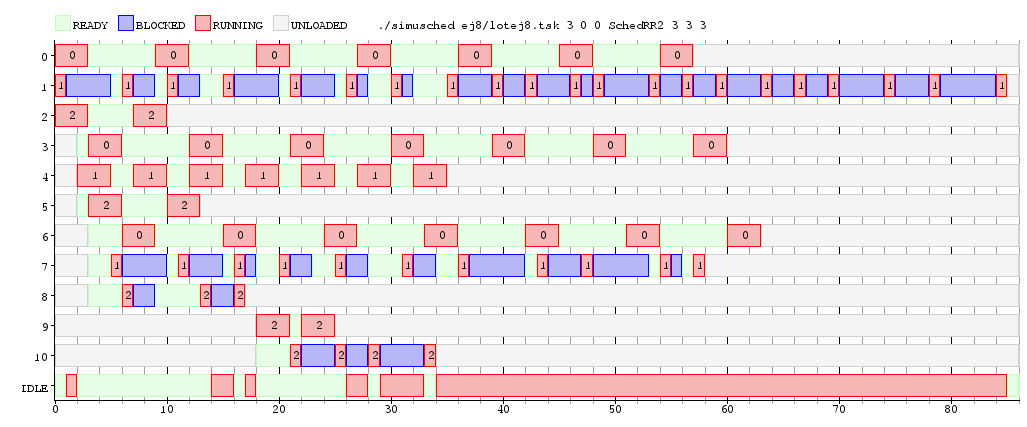
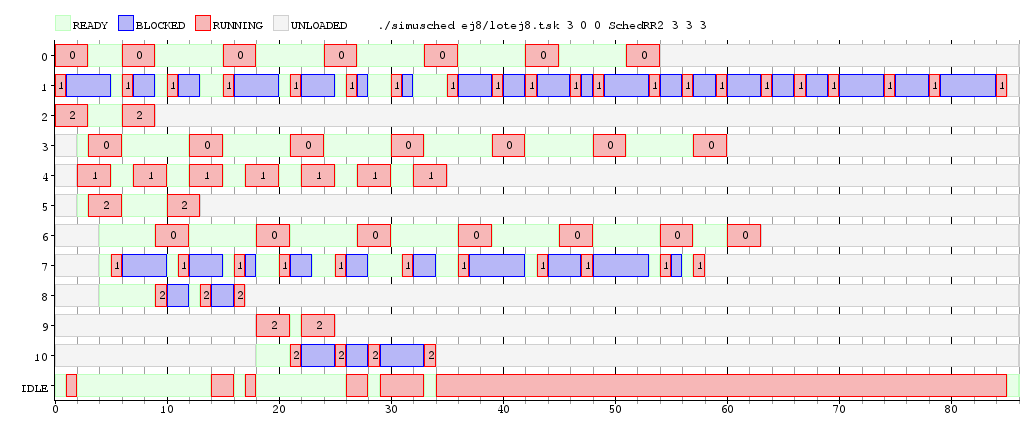
ahora la imagen del ej8 esta bien

diff --git a/inf/ej8.tex b/inf/ej8.tex
@@ -43,7 +43,7 @@ Debido a la implementación cuando todos los cores tengan igual cantidad de proc
 GRAFICO
 
 Se puede observar que no existe migración de núcleos, ya que todas las tareas mantienen su número de cpu a lo largo de toda la simulación.
-
+En los instantes 0, 2 y 3 se ve que llegan las tareas y se les asignan los cores de la forma esperada. En el instante 
 
 
 
